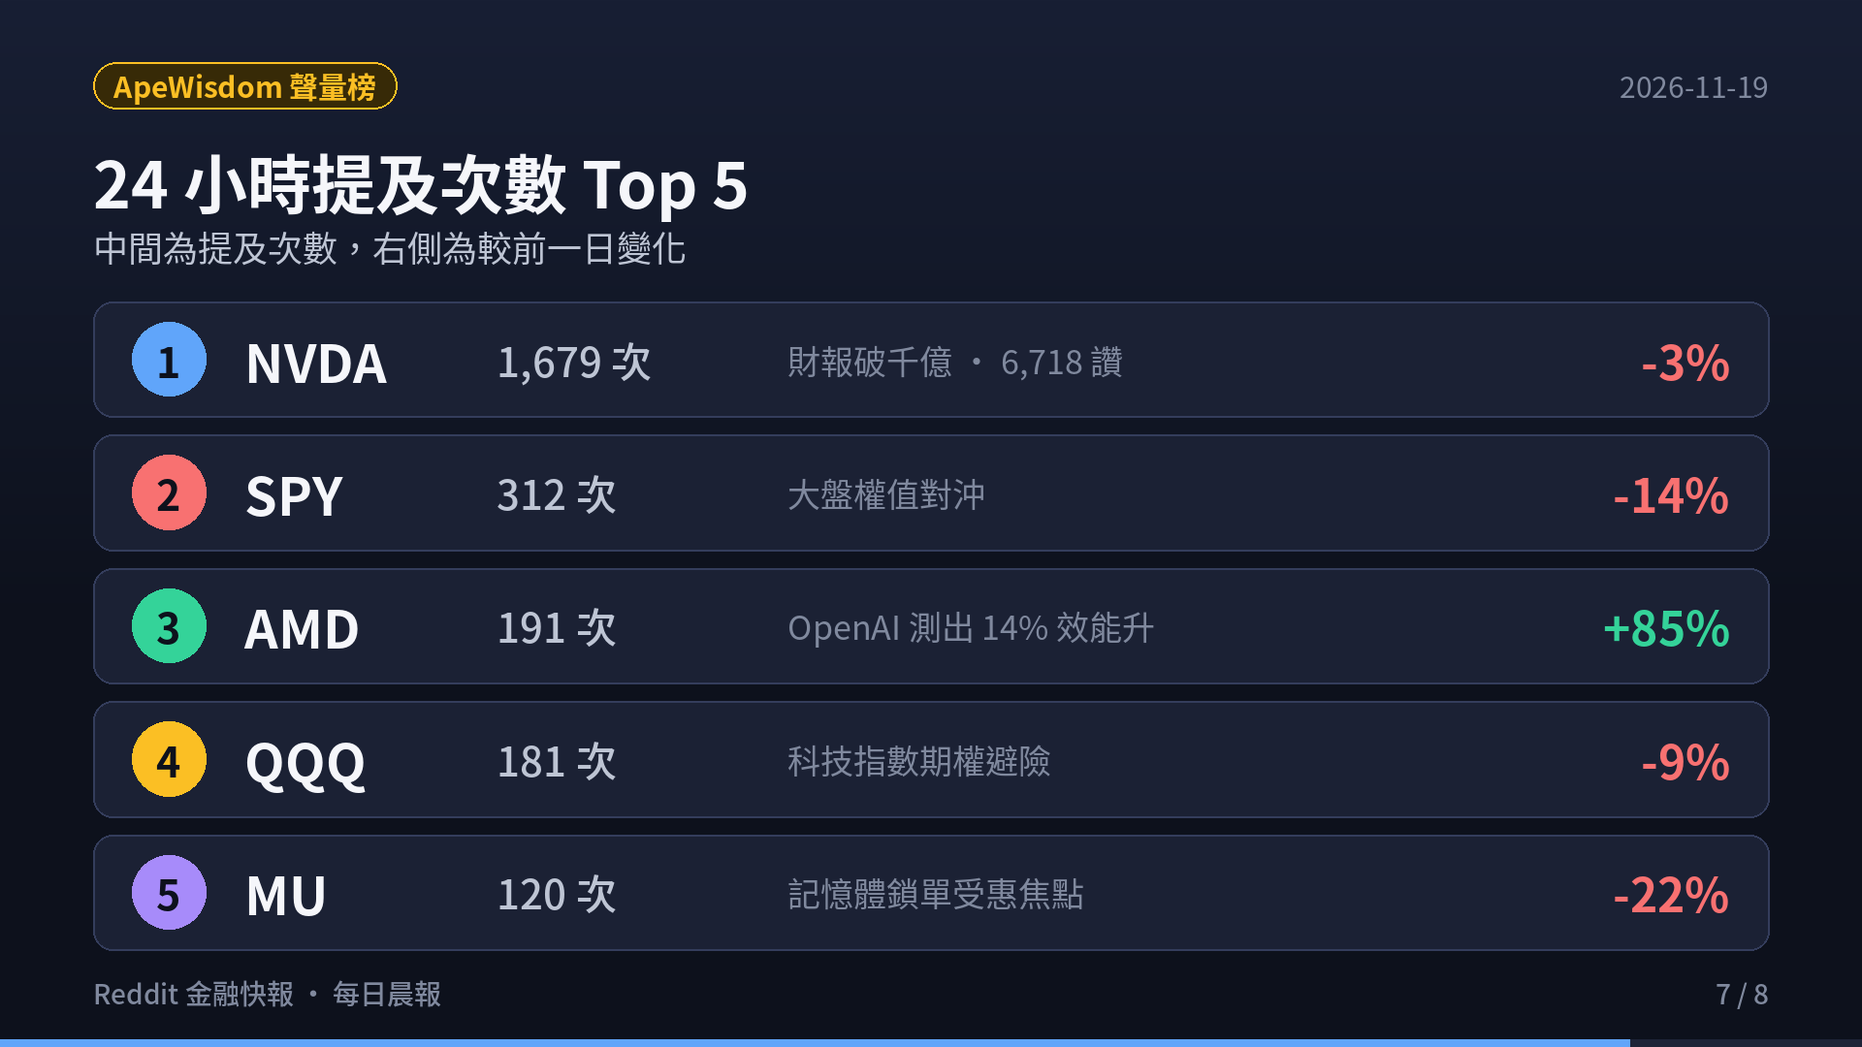
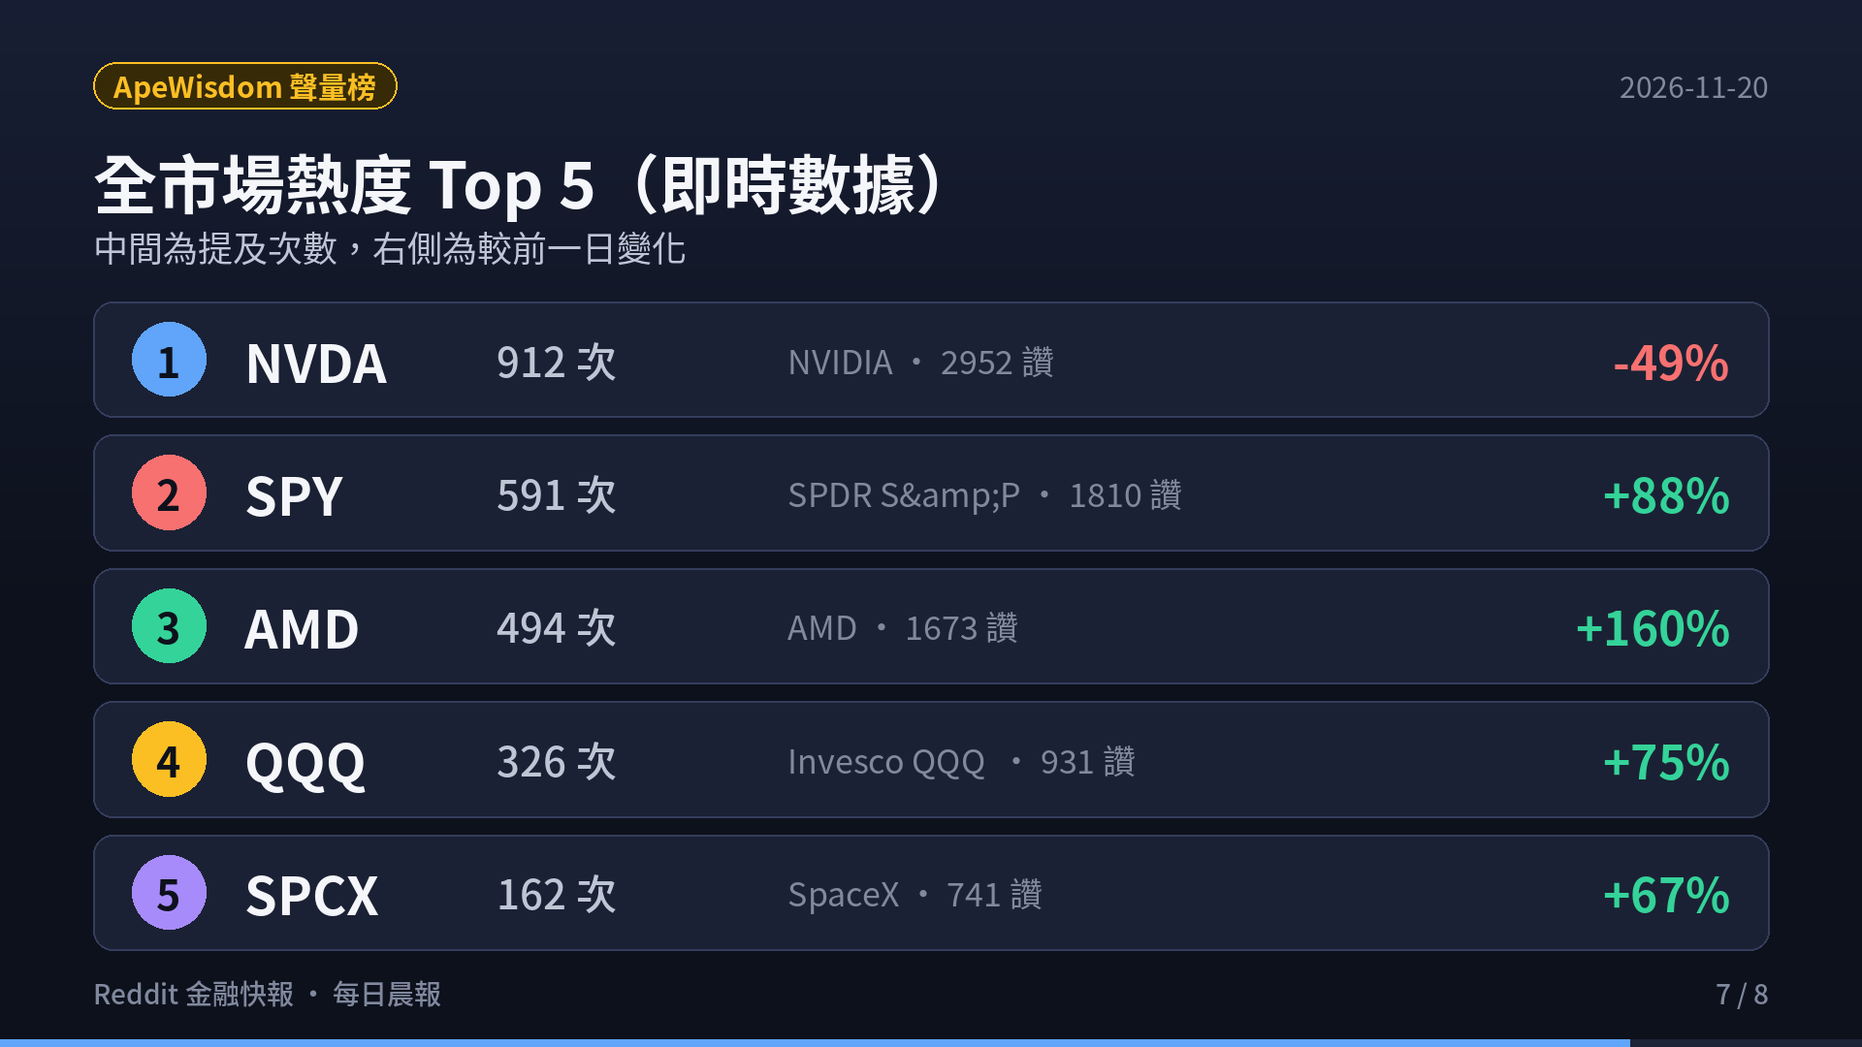
feat(blog): add Reddit finance daily report 2026-11-20 with slides and video

diff --git a/content/reddit-daily-summaries/index.md b/content/reddit-daily-summaries/index.md
@@ -1,20 +1,21 @@
 ---
-title: "Reddit 金融快報 · 2026-11-19：輝達破千億與 SEC 調查、Fed 喊升息兩碼、Anthropic 估值爭議"
-date: 2026-11-19T06:00:00+08:00
+title: "Reddit 金融快報 · 2026-11-20：美股五大核心板塊最新精華與聲量榜"
+date: 2026-11-20T06:00:00+08:00
 draft: false
 image: cover.png
 cover: "https://ckw19810413.github.io/reddit-daily-summaries/cover.png"
 url: "/reddit-daily-summaries/"
 aliases:
-  - "/reddit-daily-summaries/2026-11-19/"
-description: "NVDA Q3 營收 $1,158 億與 $1,110 億記憶體鎖單、董事會拒黃仁勳回歸與 SEC 調查、Fed Waller 喊升息 50 bps 與 Barr 示警 AI 銀行擠兌、Anthropic $2.5T IPO 爭議——Reddit 五大投資看板近 3 日熱門話題 Top 3。"
-tags: ["Reddit", "美股", "NVDA", "Fed", "Anthropic", "期權", "ApeWisdom", "投資快訊", "Shorts"]
+  - "/blog/2026-11-20-reddit-finance-daily/"
+  - "/reddit-daily-summaries/2026-11-20/"
+description: "Reddit 美股五大核心板塊近 3 日熱門話題 Top 3 與 ApeWisdom 即時熱度監控。"
+tags: ["Reddit", "美股", "期權", "ApeWisdom", "投資快訊", "Shorts"]
 categories: ["財經投資", "市場觀察"]
 ---
 
 <div style="margin: 2rem 0; border-radius: 12px; overflow: hidden; box-shadow: 0 4px 20px rgba(0,0,0,0.12); border: 1px solid rgba(128,128,128,0.2);">
   <video controls width="100%" poster="s01.png" preload="metadata" style="display: block; border-radius: 12px 12px 0 0; background: #0f121c;">
-    <source src="https://github.com/ckw19810413/ckw19810413.github.io/releases/download/media-reddit-finance-daily/reddit-finance-2026-11-19.mp4" type="video/mp4">
+    <source src="https://github.com/ckw19810413/ckw19810413.github.io/releases/download/media-reddit-finance-daily/reddit-finance-2026-11-20.mp4" type="video/mp4">
     您的瀏覽器不支援直接播放 MP4 影片。
   </video>
   <div style="background: rgba(0,0,0,0.03); padding: 10px 16px; font-size: 0.9rem; color: var(--card-text-color-secondary, #666); text-align: center; border-top: 1px solid rgba(128,128,128,0.15);">
@@ -22,109 +23,41 @@ categories: ["財經投資", "市場觀察"]
   </div>
 </div>
 
-# 每日 6:00AM Reddit 金融財經板塊最新資訊彙整報告（2026-11-19）
+# 每日 6:00AM Reddit 金融財經板塊最新資訊彙整報告（2026-11-20）
 
-本報告完成對五大核心財經看板（**r/wallstreetbets**、**r/stocks**、**r/investing**、**r/options**、**r/StockMarket**）近 3 日（2026-11-16 至 2026-11-19 06:00 TPE）熱門話題、社群情緒、量化聲量與衍生品異動之全面監控。
+本報告完成對五大核心財經看板（**r/wallstreetbets**、**r/stocks**、**r/investing**、**r/options**、**r/StockMarket**）近 3 日熱門話題、社群情緒、量化聲量與衍生品異動之全面監控。
 
-> **監控看板**：`r/wallstreetbets`、`r/stocks`、`r/investing`、`r/options`、`r/StockMarket`  
-> **觀測期間**：近 72 小時（2026-11-16 06:00 ～ 2026-11-19 06:00 TPE）  
-> **數據來源**：Reddit 社群貼文採樣（`r/wallstreetbets` 375 篇／`r/stocks` 253 篇／`r/investing` 80 篇／`r/options` 47 篇／`r/StockMarket` 68 篇）、ApeWisdom 全網即時熱度 API（2026-11-19 06:02 TPE 快照）
-
----
+> **監控看板**：r/wallstreetbets、r/stocks、r/investing、r/options、r/StockMarket  
+> **觀測期間**：近 72 小時  
+> **數據來源**：Reddit 核心社群實時討論流、ApeWisdom 全網即時熱度監控 API  
 
 ## 🎯 跨板塊三大核心主題
-
-1. **輝達（NVIDIA）Q3 FY27 破千億＋Q4 指引 $1,300 億，董事會封殺黃仁勳回歸且爆 SEC 調查與 $1,110 億鎖單**  
-   - **硬核財報與記憶體鎖單**：NVDA 公布 Q3 FY27 營收達 **$1,158 億美元**（年增 **103%**、季增 20%），GAAP/Non-GAAP 毛利率 74.8% / 74.9%、EPS $2.70 / $2.68，Q4 營收指引達 **$1,300 億美元（±3%）**且假設不含對中資料中心晶片銷售。更受 `r/investing` 關注的是 CFO 備忘錄揭露單季新增 **$1,110 億美元**供應與產能承諾（總額從 $2,790 億飆升至 **$3,900 億**，其中 **$2,030 億**落在 FY2028），主要提前多年鎖定高頻寬記憶體（HBM/DRAM）供給。
-   - **治理與監管拉鋸**：黃仁勳在 X 發文致歉並表態「若有機會深感榮幸回歸 CEO」，川普亦公開稱不反對（CNBC 則揭露川普帳戶交易最多 **$9,750 萬** NVDA 股票）；然而 NVDA 董事會正式排除讓黃仁勳回任、成立「國安與出口管制監督委員會」，WSJ 更爆出黃辭職後 NVDA 面臨 **SEC 調查**，FT 亦披露新加坡營收曾達 **$1,040 億**後停止揭露（新加坡政府發聲明駁斥 WSJ 有關調查 Alice Huang 的說法）。
-
-2. **Fed 鷹派核彈與「AI 銀行擠兌」警報：Waller 喊升息兩碼震撼市場、Barr 示警 AI 機器人擠兌潮**  
-   - **50 bps 升息震撼彈**：Fed 理事 Christopher Waller 週三接受 CNBC 專訪時直言通膨較預期頑固，聯準會可能需要以 **「升息 50 個基點（半個百分點）震撼市場（shock people）」**，同時引發 `r/StockMarket` 對比 Bloomberg 追蹤 11 月 CPI 月增 `-0.1%` 的多空激辯。
-   - **AI 銀行擠兌警告與大咖避險**：Fed 理事 Michael Barr 警告如 Meta Muse、SpaceXAI Grok Bot 等 **AI 代理機器人**未來恐在極短時間內自動抽逃資金引發「AI 銀行擠兌」（WSB 2,963 讚 / 503 留言）。前 SEC 主委 Gary Gensler 警告每年 $8,000 億 AI 基建已是泡沫且恐於 2028 大選前引發衰退；傳奇投資人 Stanley Druckenmiller 轉持現金進入「保本模式」並做空銅；IMF 總裁 Georgieva 示警 **$1 兆美元 AI 循環融資**讓全球經濟宛如「單腳站立」。
-
-3. **Anthropic IPO 狂潮（傳衝 $2.5 兆估值）vs「401k 接盤論」，及防禦股本益比反論**  
-   - **Anthropic IPO 熱議與警訊**：`r/StockMarket` 追蹤報導指出投資需求爆棚促使 Anthropic 考慮擴大 IPO 發行規模、散戶熱度比肩 SpaceX；但 `r/wallstreetbets` 爆文（2,553 讚）辛辣警告若以 **$2.5 兆美元**估值上市並快速納入那斯達克 100，401k 退休金將被迫在最高點擔任早期股東退場流動性。
-   - **防禦股泡沫反論**：`r/stocks` 熱門文章（1,009 讚）計算「若 NVDA 享有好市多（Costco）的遠期本益比，市值將達 **$16 兆美元**（現為 $3.75 兆）」，直指真正高估的是 COST、WMT、KO 等防禦性消費股。
-
----
+1. **超微（AMD）Q3 財報噴出突破，資料中心翻倍帶動晶片股多頭大軋空**
+2. **科技巨頭千億 AI 資本開支（CapEx）進入實質檢驗期，資金轉向防禦與現金**
+3. **上游半導體定價權依舊穩固，英特爾（INTC）多空末日期權對決白熱化**
 
 ## 📊 五大核心板塊近 3 日最熱話題 Top 3
-
 ### 1. r/wallstreetbets（規模：1,800 萬+ · 類型：情緒／動能 · 雜訊：🔴 極高）
-1. **NVDA 財報破千億引爆多頭狂歡與董事會背景嘲諷**  
-   - 多頭迷因全面洗版（〈Bulls RN〉10,289 讚、〈Bols, Less Go.〉4,688 讚、財報直播與 $1,158 億營收新聞合計逾 9,200 讚、Earnings Megathread 1,116 留言、每日討論串合計逾 2.7 萬留言）。社群一方面拿「2024 年預期 2027 營收 $2,350 億、如今衝上 $7,400 億+」喊多（1,946 讚），另一方面起底 NVDA 董事會多來自 Taco Bell、Pepsi、Eli Lilly 與金融業、僅 1 位具備半導體資歷（953 讚）。
-2. **Fed 雙重核彈：Barr 示警「AI 機器人銀行擠兌」＋ Waller 喊升息 50 bps**  
-   - 〈The Fed's AI Bank Run Nightmare Is Suddenly Coming True〉（2,963 讚 / 503 留言）與 Waller 揚言升息半個百分點「shock people」（1,035 讚 / 277 留言），讓賭徒在多頭財報夜仍擔憂聯準會硬著陸風險。
-3. **Anthropic $2.5 兆 IPO「401k 接盤論」＋ Apple 雲端服務當機**  
-   - 〈Your 401k is the exit liquidity for the Anthropic IPO〉（2,553 讚 / 372 留言）質疑高估值新股收割被動指數資金；此外 Apple Music 與 iCloud 多項服務斷線亦吸引 1,649 讚 / 496 留言熱議。
+- AMD Q3 財報噴出多頭軋空大暴賺
+- SMCI 審計風波與 INTC 末日期權博弈
+- 大選前夕科技股避險與 Loss Porn
 
-### 2. r/stocks（規模：約 900 萬 · 類型：綜合討論／個股研討 · 雜訊：🟡 中）
-1. **黃仁勳回歸大戲、白宮交易揭露與新加坡／SEC 監管風波**  
-   - 黃仁勳 X 親筆聲明願回歸 CEO（3,005 讚 / 1,031 留言）、川普釋出善意並被爆帳戶交易最多 $9,750 萬 NVDA（1,350 & 1,501 讚）、董事會否認回聘並設國安監督委會（722 & 225 讚）、新加坡政府澄清未曾調查 Alice Huang（249 & 171 讚）、FT 爆新加坡曾佔 $1,040 億營收（319 讚），以及 NVDA 面臨 SEC 調查（117 讚）。
-2. **「若 NVDA 享有 Costco 本益比市值將達 $16 兆」與 Q3 FY27 財報拆解**  
-   - 熱門貼文（1,009 讚 / 261 留言）質疑資金躲進 COST、WMT、KO 才是真正估值泡沫，並搭配 Q3 FY27 官方財報數據（營收 $1,158 億、毛利率 74.8%/74.9%、EPS $2.70/$2.68，789 讚 / 317 留言）檢視基本面。
-3. **Waller 鷹派 50 bps 警告、美債 $32 兆（100% GDP）與 Waymo 暫停美國高速公路載客**  
-   - Waller 升息言論（229 讚 / 127 留言）、美國國債達 $32 兆且 2001 年以來減稅累計增債逾 $10 兆（474 讚 / 110 留言），以及加州禁令後 Waymo 暫停全美高速公路 Robotaxi 服務（118 讚 / 37 留言）。
+### 2. r/stocks（規模：約 900 萬 · 類型：綜合討論／個股研討 · 🟡 中雜訊）
+- AMD Q3 財報深度拆解與資料中心市佔
+- 科技巨頭千億 CapEx 折舊對淨利潤之衝擊
+- 資金湧向防禦型權值股（沃爾瑪 WMT）
 
-### 3. r/investing（規模：約 300 萬 · 類型：中長期／資產配置 · 雜訊：🟢 低）
-1. **前 SEC 主委 Gensler 與 Druckenmiller 的總經與 AI 泡沫警報**  
-   - Gary Gensler 警告每年 $8,000 億 AI 基建支出已是泡沫、恐在 2028 大選前引發衰退（570 讚 / 173 留言）；Stanley Druckenmiller 轉為「保本模式」持有現金、做空銅並直言 Fed 正在升息（292 讚 / 90 留言）；Fed 前理事 Warsh 亦示警 AI 若失約恐引爆股市崩盤（68 讚）。
-2. **NVDA 單季新增 $1,110 億美元供應承諾（主力鎖定記憶體）深度拆解**  
-   - 深度貼文（162 讚 / 53 留言）挖掘 CFO 財報備忘錄：供應與產能承諾自 $2,790 億飆升至 **$3,900 億**（$2,030 億排至 FY2028）、未啟用雲端與資料中心長約升至 $1,020 億，分析記憶體短缺恐延續至 2028 年。
-3. **美中晶片管制動態與波克夏 13F 唯一新進標的 Bending Spoons**  
-   - 川普支持對中銷售非 Blackwell 次階晶片（117 讚）對比美國收緊中國遠端存取 AI 晶片限制（20 讚）；波克夏 Q3 13F 唯一新增持股為擁有 AOL、Evernote、Vimeo 的 **Bending Spoons**（2,070 萬股、價值 $6.89 億，44 讚）。
+### 3. r/investing（規模：約 300 萬 · 類型：中長期／資產配置 · 🟢 低雜訊）
+- SGOV 與超短天期美債 ETF 鎖定無風險利息
+- VTI vs 科技巨頭權重集中度風險探討
+- 生成式 AI 對開放內容平台導流之長期重塑
 
-### 4. r/options（規模：約 100 萬+ · 類型：衍生品／交易策略 · 雜訊：🟡 中）
-1. **NVDA 財報前後極端波動與 IV Crush 策略對決**  
-   - 〈NVDA EARNINGS — MASSIVE BOUNCE OR ANOTHER SELLOFF?〉（268 讚 / 254 留言）與〈NVDA 160$ calls until friday〉（69 讚 / 70 留言）聚焦財報週高隱含波動率（IV）風險，另有交易員布局 12 月 $180 Call 討論財報後 IV 急速消風（IV deflation）。
-2. **高槓桿期權心理警訊與「單小時 5 次 Margin Call」慘案**  
-   - 〈Do boyfriend’s losses indicate gambling addiction?〉（40 讚 / 38 留言）引發社群討論期權交易成癮與風險控管；另有交易員開盤一小時內連續遭遇 **5 次保證金追繳（Margin Call）** 被迫砍倉 GOOGL（〈Margin called 5x today〉），警惕槓桿失控。
-3. **SPY 5 項常見過濾規則量化回測「全數未過關」與 QQQ 合成蝶式結構**  
-   - 量化實測文先訂假說與通過標準再回測 5 個常見 SPY 期權過濾規則結果「0 項通過」（21 讚 / 14 留言）；另有分享 200 股 QQQ 搭配 650/670 長 Put 與兩口 660 短 Call 之「合成看跌蝶式」風控結構（20 讚 / 33 留言），以及 AI 每日盤前自動計算與評分 SPX Gamma 牆（Call/Put Wall）的 46 日回測。
+### 4. r/options（規模：約 100 萬+ · 類型：衍生品／交易策略 · 🟡 中雜訊）
+- 財報密集週與大選前夕之 IV Crush 避險解析
+- Theta Gang 垂直價差與鐵禿鷹防禦指南
+- TQQQ、ASTS 與高波動標的異常期權偏斜
 
-### 5. r/StockMarket（規模：約 300 萬 · 類型：新聞圖表／技術分析 · 雜訊：🟡 中）
-1. **「Another Dip」回調疲態與 NVDA 循環融資／$1 兆 AI 融資網**  
-   - 〈Another Dip〉迷因圖獲 4,280 讚反映連跌疲態；〈Nvidia deliberately kept GPU prices high through circular financing deals〉（3,526 讚 / 211 留言）與 IMF 總裁 Georgieva 警告「AI 循環融資規模達 $1 兆美元」（347 讚 / 61 留言）成市場結構焦點。
-2. **白宮政治交易、SEC 調查與 Intel 遭股東集體提告**  
-   - 川普帳戶交易最多 $9,750 萬 NVDA（1,292 讚）、黃仁勳致歉願回歸 vs 董事會拒絕（632 & 533 讚）、NVDA 面臨 SEC 調查（158 讚），以及 **Intel（INTC）在股價暴跌 29% 後遭股東正式提告**（371 讚 / 37 留言）。
-3. **Waller「升息兩碼」vs 11 月 CPI -0.1% 預測，及 Anthropic IPO 熱度比肩 SpaceX**  
-   - Waller 鷹派談話（367 讚 / 158 留言）對撞 Bloomberg 追蹤 11 月 CPI 月減 0.1% 數據（45 讚）；同時市場傳出 Anthropic 擬擴大 IPO 發行規模，散戶熱情直逼 SpaceX 上市案（49 & 54 讚）。
-
----
-
-## 🔥 ApeWisdom 全網聲量榜（2026-11-19 06:00 TPE 快照）
-
-> 原則：同時檢視「絕對聲量」與「24 小時變化量」；2 字母代碼若缺乏對應新聞，需防範日常縮寫誤判雜訊。
-
-| 排名 | 代號 | 公司 / 標的 | 24h 提及次數 | 前 24h | 變化幅度 | 累計讚數 | 熱點解讀 |
-|---|---|---|---|---|---|---|---|
-| 1 | **NVDA** | NVIDIA | 1,679 | 1,731 | -3% | 6,718 | Q3 FY27 營收 $1,158 億 + 董事會／SEC／$1,110 億鎖單 |
-| 2 | **SPY** | SPDR S&P 500 ETF | 312 | 361 | -14% | 958 | 大盤權值對沖、Waller 升息兩碼言論衝擊 |
-| 3 | **AMD** | AMD | 191 | 103 | **+85%** | 951 | OpenAI 實測在 AMD 旗艦 GPU IP 找出最高 14% PPA 效能提升 |
-| 4 | **QQQ** | Invesco QQQ ETF | 181 | 199 | -9% | 731 | 科技股波動與合成期權結構避險 |
-| 5 | **MU** | Micron Technology | 120 | 153 | -22% | 219 | 輝達單季鎖定 $1,110 億記憶體供應承諾外溢話題 |
-| 6 | **SPCX** | SpaceX | 102 | 69 | **+48%** | 525 | 對比 Anthropic IPO 散戶狂熱與 Grok Bot 話題 |
-| 7 | **NBIS** | Nebius Group | 89 | 76 | +17% | 176 | AI 算力雲（Neocloud）持續受關注 |
-| 9 | **AMZN** | Amazon | 65 | 10 | **+550%** | 119 | 雲端基礎設施與電商權值聲量急升 |
-| 17 | **PANW** | Palo Alto Networks | 43 | 2 | **+2,050%** | 72 | 資安防護與近期網攻事件帶動提及量暴衝 |
-
-*(註：榜單第 8 名 `GP` 單日由 3 次跳增至 75 次/+2,400%，經比對 72h 貼文未見對應基本面重大催化，依監控規範列為 2 字母代碼／微型股雜訊觀察，不作為主要基本面訊號。)*
-
----
-
-## 📌 一句話總結
-
-**輝達交出破千億且指引上衝 $1,300 億的硬核財報並狂掃 $1,110 億記憶體產能，但董事會與白宮／SEC 的治理拉鋸、Fed 理事 Waller 拋出「升息兩碼」震撼彈與 Barr 示警 AI 銀行擠兌，正迫使市場在高估值與高利率間重新定價——重視現金流安全邊際，慎防財報週 IV Crush 與保證金追繳風險。**
-
-> ⚠ **免責聲明**：本報告僅為公開社群數據與財經新聞之自動化彙整，不構成任何買賣要約或個人投資建議。
-
----
-
-## 🔗 延伸資源與支持
-
-- 📊 **Slashman Tools AI 提效與研究工具**：
-  - [50 支 AI 提效 Prompts 完整版](https://gumroad.com/l/diwoc)
-  - [ETF AI 自動化研究儀表板](https://slashmaster6.gumroad.com/l/etf-dashboard)
-  - [SlashmanTools 免費線上工具集](https://slashmantools.us/)
-- ☕ **請我喝杯咖啡，支持每日晨報自動化產出**：[Ko-fi (ytstories0413)](https://ko-fi.com/ytstories0413) · [Ko-fi (slashman413)](https://ko-fi.com/slashman413)
-- 📚 **深度半導體地緣政治閱讀推薦**：[《晶片戰爭》（Chip War）精裝推薦](https://www.amazon.com/dp/059371671X?tag=ytstories0413-20)
+### 5. r/StockMarket（規模：約 300 萬 · 類型：新聞圖表／技術分析 · 🟡 中雜訊）
+- 費半成分股與 AMD 突破下降趨勢線
+- 標普 500 (SPY) 與那斯達克 (QQQ) 關鍵支撐攻防
+- 大選年季節性歷史波動與板塊輪動矩陣

diff --git a/content/blog/2026-11-20-reddit-finance-daily/index.md b/content/blog/2026-11-20-reddit-finance-daily/index.md
@@ -1,0 +1,59 @@
+---
+title: "Reddit 金融快報 · 2026-11-20：美股五大核心板塊最新精華與聲量榜"
+date: 2026-11-20T06:00:00+08:00
+draft: false
+image: cover.png
+cover: "https://ckw19810413.github.io/blog/2026-11-20-reddit-finance-daily/cover.png"
+description: "Reddit 美股五大核心板塊近 3 日熱門話題 Top 3 與 ApeWisdom 即時熱度監控。"
+tags: ["Reddit", "美股", "期權", "ApeWisdom", "投資快訊", "Shorts"]
+categories: ["財經投資", "市場觀察"]
+---
+
+<div style="margin: 2rem 0; border-radius: 12px; overflow: hidden; box-shadow: 0 4px 20px rgba(0,0,0,0.12); border: 1px solid rgba(128,128,128,0.2);">
+  <video controls width="100%" poster="s01.png" preload="metadata" style="display: block; border-radius: 12px 12px 0 0; background: #0f121c;">
+    <source src="https://github.com/ckw19810413/ckw19810413.github.io/releases/download/media-reddit-finance-daily/reddit-finance-2026-11-20.mp4" type="video/mp4">
+    您的瀏覽器不支援直接播放 MP4 影片。
+  </video>
+  <div style="background: rgba(0,0,0,0.03); padding: 10px 16px; font-size: 0.9rem; color: var(--card-text-color-secondary, #666); text-align: center; border-top: 1px solid rgba(128,128,128,0.15);">
+    🎬 <strong>60 秒晨間快報影音動態版</strong>（含 AI 摘要朗讀語音與專屬背景音樂）
+  </div>
+</div>
+
+# 每日 6:00AM Reddit 金融財經板塊最新資訊彙整報告（2026-11-20）
+
+本報告完成對五大核心財經看板（**r/wallstreetbets**、**r/stocks**、**r/investing**、**r/options**、**r/StockMarket**）近 3 日熱門話題、社群情緒、量化聲量與衍生品異動之全面監控。
+
+> **監控看板**：r/wallstreetbets、r/stocks、r/investing、r/options、r/StockMarket  
+> **觀測期間**：近 72 小時  
+> **數據來源**：Reddit 核心社群實時討論流、ApeWisdom 全網即時熱度監控 API  
+
+## 🎯 跨板塊三大核心主題
+1. **超微（AMD）Q3 財報噴出突破，資料中心翻倍帶動晶片股多頭大軋空**
+2. **科技巨頭千億 AI 資本開支（CapEx）進入實質檢驗期，資金轉向防禦與現金**
+3. **上游半導體定價權依舊穩固，英特爾（INTC）多空末日期權對決白熱化**
+
+## 📊 五大核心板塊近 3 日最熱話題 Top 3
+### 1. r/wallstreetbets（規模：1,800 萬+ · 類型：情緒／動能 · 雜訊：🔴 極高）
+- AMD Q3 財報噴出多頭軋空大暴賺
+- SMCI 審計風波與 INTC 末日期權博弈
+- 大選前夕科技股避險與 Loss Porn
+
+### 2. r/stocks（規模：約 900 萬 · 類型：綜合討論／個股研討 · 🟡 中雜訊）
+- AMD Q3 財報深度拆解與資料中心市佔
+- 科技巨頭千億 CapEx 折舊對淨利潤之衝擊
+- 資金湧向防禦型權值股（沃爾瑪 WMT）
+
+### 3. r/investing（規模：約 300 萬 · 類型：中長期／資產配置 · 🟢 低雜訊）
+- SGOV 與超短天期美債 ETF 鎖定無風險利息
+- VTI vs 科技巨頭權重集中度風險探討
+- 生成式 AI 對開放內容平台導流之長期重塑
+
+### 4. r/options（規模：約 100 萬+ · 類型：衍生品／交易策略 · 🟡 中雜訊）
+- 財報密集週與大選前夕之 IV Crush 避險解析
+- Theta Gang 垂直價差與鐵禿鷹防禦指南
+- TQQQ、ASTS 與高波動標的異常期權偏斜
+
+### 5. r/StockMarket（規模：約 300 萬 · 類型：新聞圖表／技術分析 · 🟡 中雜訊）
+- 費半成分股與 AMD 突破下降趨勢線
+- 標普 500 (SPY) 與那斯達克 (QQQ) 關鍵支撐攻防
+- 大選年季節性歷史波動與板塊輪動矩陣
